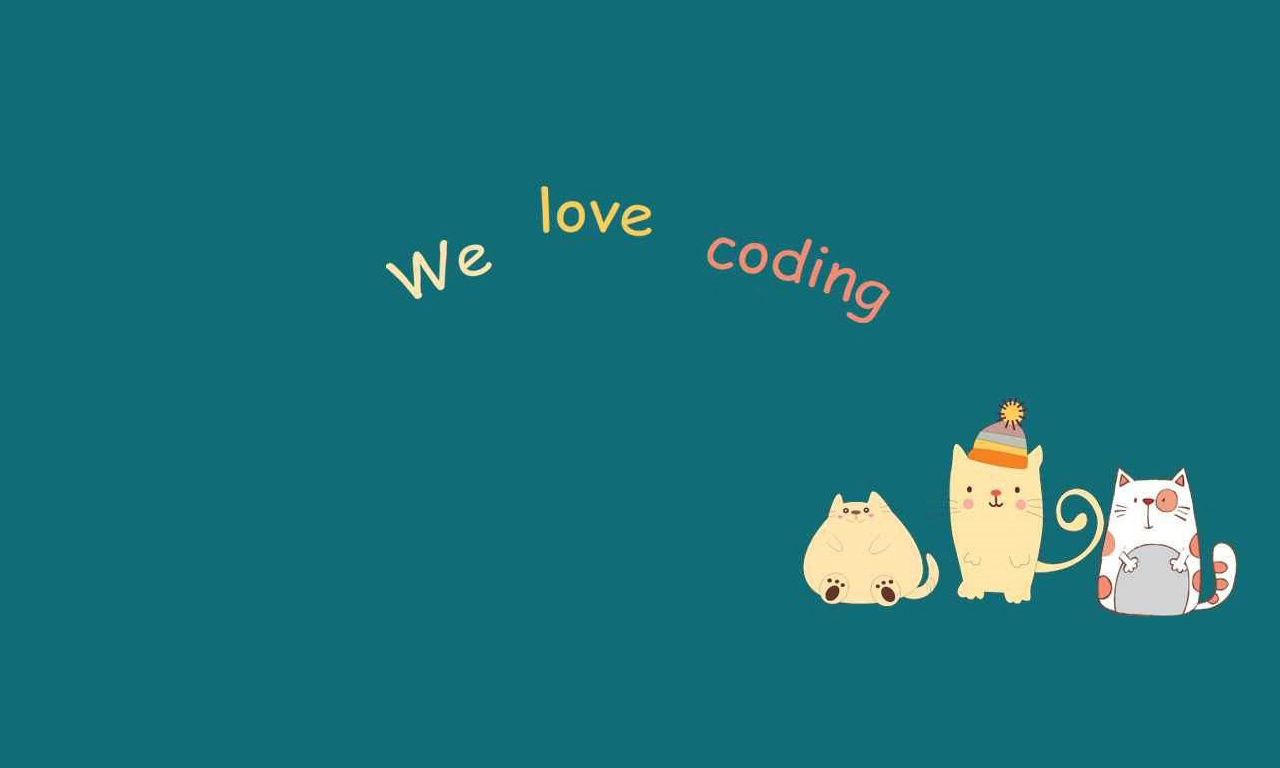
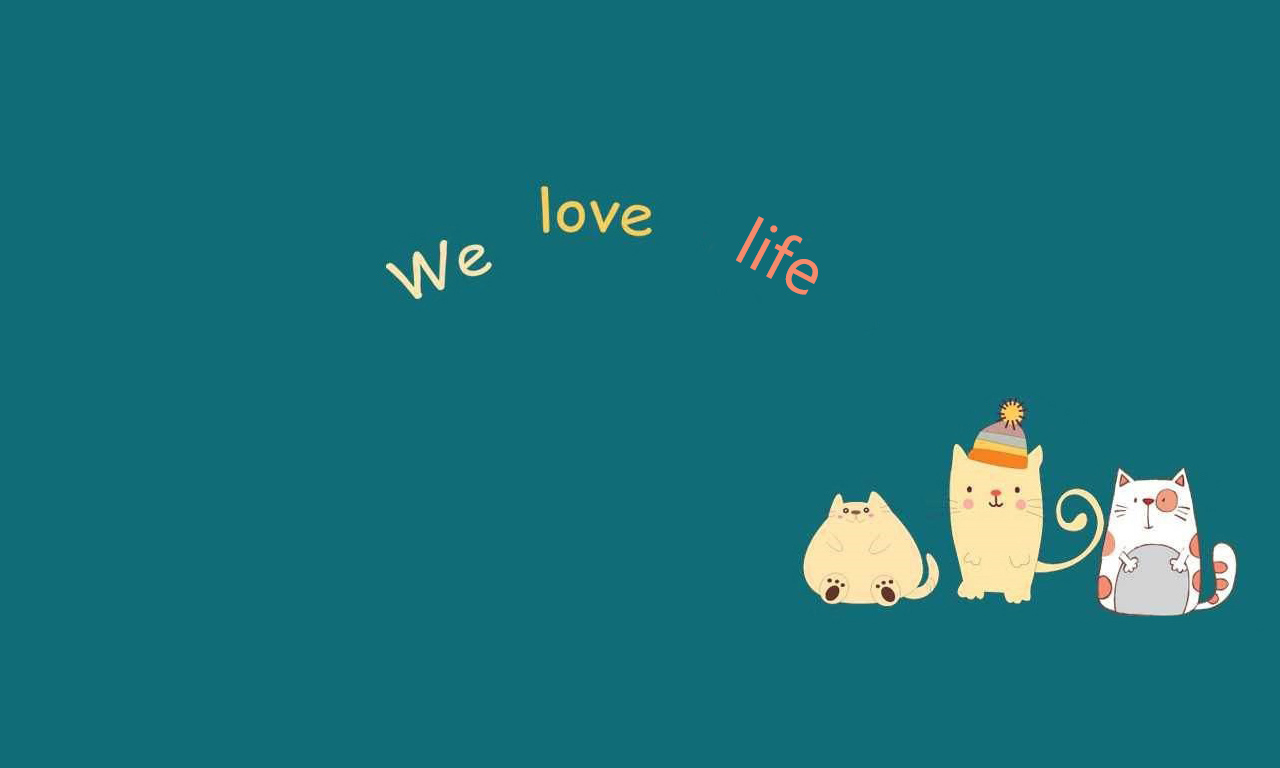
repair

Changed region(s): [[0.5312, 0.2812, 0.7188, 0.4375]]

diff --git a/_includes/footer.html b/_includes/footer.html
@@ -7,5 +7,5 @@
   {% endunless %}
   {{ current }}
   </section>
-  <section>Powered by <a href="//jekyllrb.com">Jekyll</a> | <a href="https://github.com/kaeyleo/jekyll-theme-H2O">Theme H2O</a></section>
+  <section>Powered by <a href="//jekyllrb.com">Jekyll</a> | <a href="">We love life</a></section>
 </footer>
